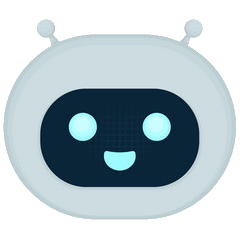
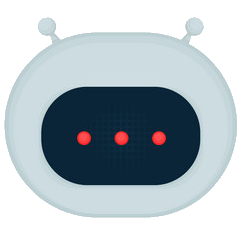
FrontEnd Final

diff --git a/main.html b/main.html
@@ -15,15 +15,16 @@
 
     <header class="p-3 bg-dark text-white">
         <div class="container">
-          <div class="d-flex flex-wrap align-items-center justify-content-center justify-content-lg-start">
-            <h5>ROCK PAPER SCISSORS AI</h5>
-          </div>
+            <div class="d-flex flex-wrap align-items-center justify-content-center ">
+                <h5>ROCK | PAPER | SCISSORS - AI</h5>
+            </div>
         </div>
-      </header>
+    </header>
     <br><br>
 
     <div class="container">
-                    <img src="static/images/robot0.png" class="rounded mx-auto d-block" id="robo_emoji" hight="80" width="80" alt="...">
+        <img id = "robot" src="static/images/robot5.png" class="rounded mx-auto d-block" id="robo_emoji" hight="80" width="80"
+            alt="...">
         <br>
         <div class="gamecontainer text-white bg-dark">
             <br>
@@ -86,14 +87,40 @@
                         onclick="gamePlay(this)">
                 </button>
             </div>
-            <hr>
-                <div class="col "> <p class='text-center'><small>LAST FIVE MOVES</small></p>
-                    <p style="font-size:13px;" id="last_1" class='text-muted text-center'>- - - - - - - -</p>
-                    <p style="font-size:13px;" id="last_2" class='text-muted text-center'>- - - - - - - -</p>
-                    <p style="font-size:13px;" id="last_3" class='text-muted text-center'>- - - - - - - -</p>
-                    <p style="font-size:13px;" id="last_4" class='text-muted text-center'>- - - - - - - -</p>
-                    <p style="font-size:13px;" id="last_5" class='text-muted text-center'>- - - - - - - -</p>
-                </div>
+            <div class="container">
+                <hr>
+            </div>
+            <div class = "row">
+                <p class='text-center'><small>PREVIOURS ROUNDS STATS</small></p>
+
+            <div class="col ">
+                <p style="font-size:13px;"  class='text-muted text-center'>History</p>
+                <p style="font-size:13px;" id="percent_1" class='text-muted text-center'>1 Round Ago.....</p>
+                <p style="font-size:13px;" id="percent_1" class='text-muted text-center'>2 Rounds Ago.....</p>
+                <p style="font-size:13px;" id="percent_1" class='text-muted text-center'>3 Rounds Ago.....</p>
+                <p style="font-size:13px;" id="percent_1" class='text-muted text-center'>4 Rounds Ago.....</p>
+                <p style="font-size:13px;" id="percent_1" class='text-muted text-center'>5 Rounds Ago.....</p>
+            </div>
+
+            <div class="col ">
+                <p style="font-size:16px;" class='text-muted text-center'>Moves</p>
+                <p style="font-size:13px;" id="last_1" class='text-muted text-center'> - - - - - - - -</p>
+                <p style="font-size:13px;" id="last_2" class='text-muted text-center'> - - - - - - - -</p>
+                <p style="font-size:13px;" id="last_3" class='text-muted text-center'> - - - - - - - -</p>
+                <p style="font-size:13px;" id="last_4" class='text-muted text-center'> - - - - - - - -</p>
+                <p style="font-size:13px;" id="last_5" class='text-muted text-center'> - - - - - - - -</p>
+            </div>
+            <div class="col ">
+                <p style="font-size:13px;" class='text-muted text-center'>Winner</p>
+                <p style="font-size:13px;" id="winner_1" class='text-muted text-center'>- - - - - - - -</p>
+                <p style="font-size:13px;" id="winner_2" class='text-muted text-center'>- - - - - - - -</p>
+                <p style="font-size:13px;" id="winner_3" class='text-muted text-center'>- - - - - - - -</p>
+                <p style="font-size:13px;" id="winner_4" class='text-muted text-center'>- - - - - - - -</p>
+                <p style="font-size:13px;" id="winner_5" class='text-muted text-center'>- - - - - - - -</p>
+            </div>
+
+
+            </div>
         </div>
 
         <br>
@@ -102,14 +129,17 @@
 
     <div class="container">
         <footer class="py-3 my-4">
-          <ul class="nav justify-content-center border-bottom pb-3 mb-3">
-            <li class="nav-item"><a href="https://github.com/iamvigneshwars" target="_blank" class="nav-link px-2 text-muted">Github</a></li>
-            <li class="nav-item"><a href="https://www.linkedin.com/in/vigneshwar-shanmugasundar-2b3553211/"  target= "_blank" class="nav-link px-2 text-muted">LinkedIn</a></li>
-            <li class="nav-item"><a href="mailto:iamvigneshwars@gmail.com"   class="nav-link px-2 text-muted">Gmail</a></li>
-          </ul>
-          <p class="text-center text-muted">&copy;2022 Vigneshwar Shanmugasundar</p>
+            <ul class="nav justify-content-center border-bottom pb-3 mb-3">
+                <li class="nav-item"><a href="https://github.com/iamvigneshwars" target="_blank"
+                        class="nav-link px-2 text-muted">Github</a></li>
+                <li class="nav-item"><a href="https://www.linkedin.com/in/vigneshwar-shanmugasundar-2b3553211/"
+                        target="_blank" class="nav-link px-2 text-muted">LinkedIn</a></li>
+                <li class="nav-item"><a href="mailto:iamvigneshwars@gmail.com"
+                        class="nav-link px-2 text-muted">Gmail</a></li>
+            </ul>
+            <p class="text-center text-muted">&copy;2022 Vigneshwar Shanmugasundar</p>
         </footer>
-      </div>
+    </div>
     <script src="static/js/script.js"></script>
     <script src="https://cdn.jsdelivr.net/npm/bootstrap@5.0.2/dist/js/bootstrap.bundle.min.js"
         integrity="sha384-MrcW6ZMFYlzcLA8Nl+NtUVF0sA7MsXsP1UyJoMp4YLEuNSfAP+JcXn/tWtIaxVXM"

diff --git a/static/js/script.js b/static/js/script.js
@@ -174,6 +174,9 @@ function sleep(ms) {
     return new Promise(resolve => setTimeout(resolve, ms));
   }
 
+// Generate Random numbers
+const random = (min, max) => Math.floor(Math.random() * (max - min)) + min;
+
 // main function
 function gamePlay(userInput){
 
@@ -188,7 +191,6 @@ function gamePlay(userInput){
     // For first round, generate a random choice for AI.
 
     if (PLAYER_MOVES.length == 0){
-        const random = (min, max) => Math.floor(Math.random() * (max - min)) + min;
         ai_choice = CHOICES[random(0, 3)];
         decision = decideWinner(player_choice, ai_choice);
     }
@@ -238,7 +240,6 @@ function gamePlay(userInput){
     SCORES[decision]++;
     RESULTS.push(decision);
 
-
     //------------------- UPDATE FRONTEND --------------------//
 
     // Update Last Five moves.
@@ -246,6 +247,12 @@ function gamePlay(userInput){
         document.getElementById("last_" + i).innerHTML = PLAYER_MOVES[PLAYER_MOVES.length -i].toUpperCase() 
                                                         + "  vs  " 
                                                         + AI_MOVES[AI_MOVES.length - i].toUpperCase();
+        if (RESULTS[RESULTS.length - i -1] == "WIN")
+            document.getElementById("winner_" + i).innerHTML = "PLAYER";
+        else if (RESULTS[RESULTS.length - i -1] == "LOSE")
+            document.getElementById("winner_" + i).innerHTML = "AI";
+        else document.getElementById("winner_" + i).innerHTML = "TIE";
+            
     }
 
     PLAYER_MOVES.push(player_choice);
@@ -286,6 +293,19 @@ function gamePlay(userInput){
         document.getElementById("result_message").style = "color:#ffee00";
 
     }
+
+
+
+    // Update Robot emoji
+
+    if (decision == "WIN")
+        document.getElementById("robot").src = "static/images/robot"+ random(1, 4) +".png";
+
+    if (decision == "LOSE")
+        document.getElementById("robot").src = "static/images/robot"+ random(4, 7) +".png";
+
+    if (decision == "TIE")
+        document.getElementById("robot").src = "static/images/robot"+ random(7, 10) +".png";
 
     var win_precentage = SCORES.WIN / (SCORES.WIN + SCORES.LOSE + SCORES.TIE);
     var lose_precentage = SCORES.LOSE / (SCORES.WIN + SCORES.LOSE + SCORES.TIE);
